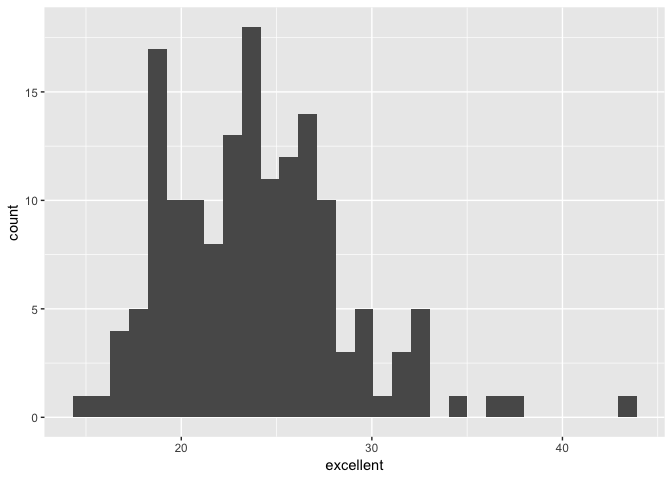
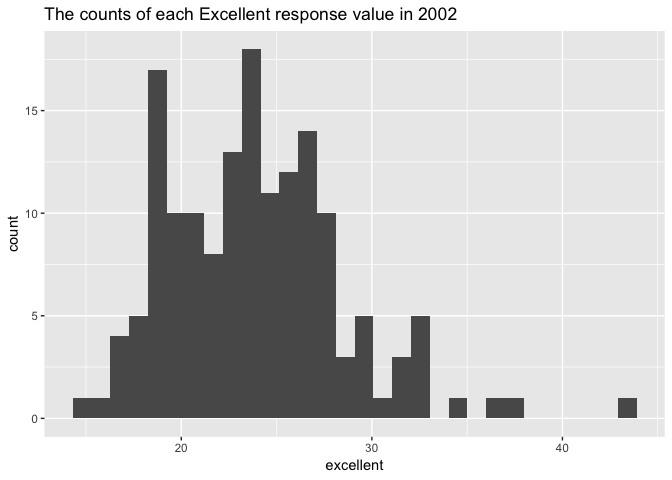
Changes to graphs and dataset description

diff --git a/p8105_hw2_js5354.md b/p8105_hw2_js5354.md
@@ -35,7 +35,7 @@ transit_data =
 
 This CSV file contains information related to subway stations in NYC, including which line each station is for, the name of each station, the geographic coordinates of each station as well as its entrance(s) / exit(s), name of N-S and W-E street that each station is located at, which route(s) each station serves, whether there is free crossover / vending entries / stuffing / ADA compliance facilitated with any station, whether the station has any entrance or it is exit only as well as the type of entrance.
 
-So far the csv file has been loaded and stored to `transit_data`; each column name has been transformed into lowercase letters with underscores in between; information with respect to line, station, name, station coordinates, routes served, entry, vending, entrance type, and ADA compliance have been retained. Then type of `entry` variables has been coerced into logical variables.
+So far the csv file has been loaded and stored to a data frame named`transit_data` in the environment; each column name has been transformed into lowercase letters with underscores in between; information with respect to line, station, name, station coordinates, routes served, entry, vending, entrance type, and ADA compliance have been retained. The variable `entry` has been coerced into a logical variable.
 
 Now the dataset contains 1868 entries of 19 variables. However, the dataset is not tidy enough. Especially there are a lot of "NA"s in column `route1:11`, which unnecessarily widens the data spreadsheet.
 
@@ -162,7 +162,8 @@ precipitation_combined = bind_rows(precipitation_16, precipitation_17) %>%
 ```
 
 The Mr. Trash Wheel sheet in the given Excel file contains information related to each trash collection event from May 2014 to July 2018 in a harbor area. For all 285 observations in Mr. Trash Wheel dataset, there listed information regarding the weight and volume of collected trash and its contents. Trash was categorized into plastic bottles, polystyrene, cigarette butts, glass bottles, grocery bags, chip bags and sports balls. The dataset also included the value (in number of homes powered) of how much electricity can be converted from the trash collected each time.
-In average, there were 3.2804912 tons / 15.5754386 cubic yards of trash per collection.
+
+On average, there were 3.2804912 tons / 15.5754386 cubic yards of trash per collection. The number of plastic bottles collected each time ranged from 210 to 5960 and that of polystyrene ranged from 320 to 6540. In 2014, there were in total 3.87310^{4} grocery bags collected in the harbor area, as well as 7.084910^{4} chip bags.
 
 The precipitation data for 2016 and 2017 summarised the monthly precipitation (in inches) in the two years. There was an average precipitation of 3.0366667 inches every month over these two years. The lowest precipitation (7.09 inches) took place in October 2016 whereas the heaviest was 7.09 inches in May 2017.  
 
@@ -250,7 +251,8 @@ median(brfss_2002$excellent, na.rm = TRUE)
 ``` r
 #Make a histogram of “Excellent” response values in the year 2002.
 ggplot(brfss_2002, aes(x = excellent)) + 
-  geom_histogram()
+  geom_histogram() +
+  labs(title = "The counts of each Excellent response value in 2002")
 ```
 
     ## `stat_bin()` using `bins = 30`. Pick better value with `binwidth`.
@@ -272,7 +274,8 @@ brfss_combined = rbind(brfss_Q, brfss_NY)
 #plot
 ggplot(brfss_combined, aes(x = year, y = excellent, color = locationdesc)) +
   geom_point(size = 4, alpha = .5)+
-  ylab('Proportion of Excellent response')
+  ylab('Proportion of Excellent response') +
+  labs( title = "The prop. of “Excellent” in New York County and Queens County, 2002-2010")
 ```
 
 ![](p8105_hw2_js5354_files/figure-markdown_github/questions%20related%20to%202002%20data-2.png)
